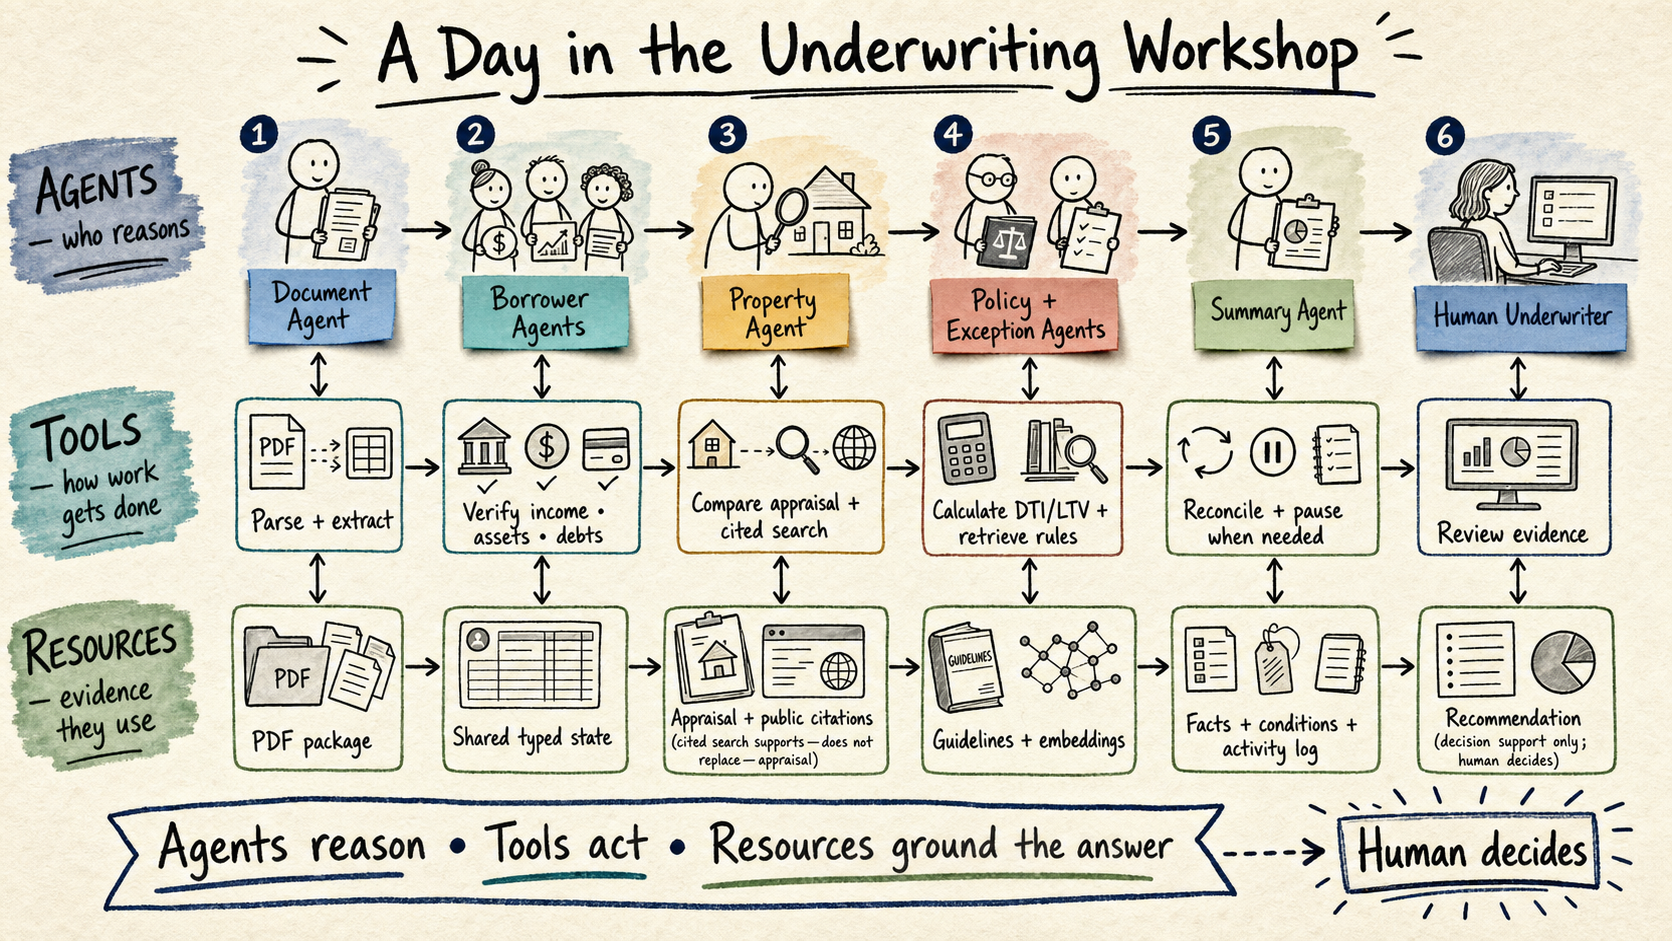
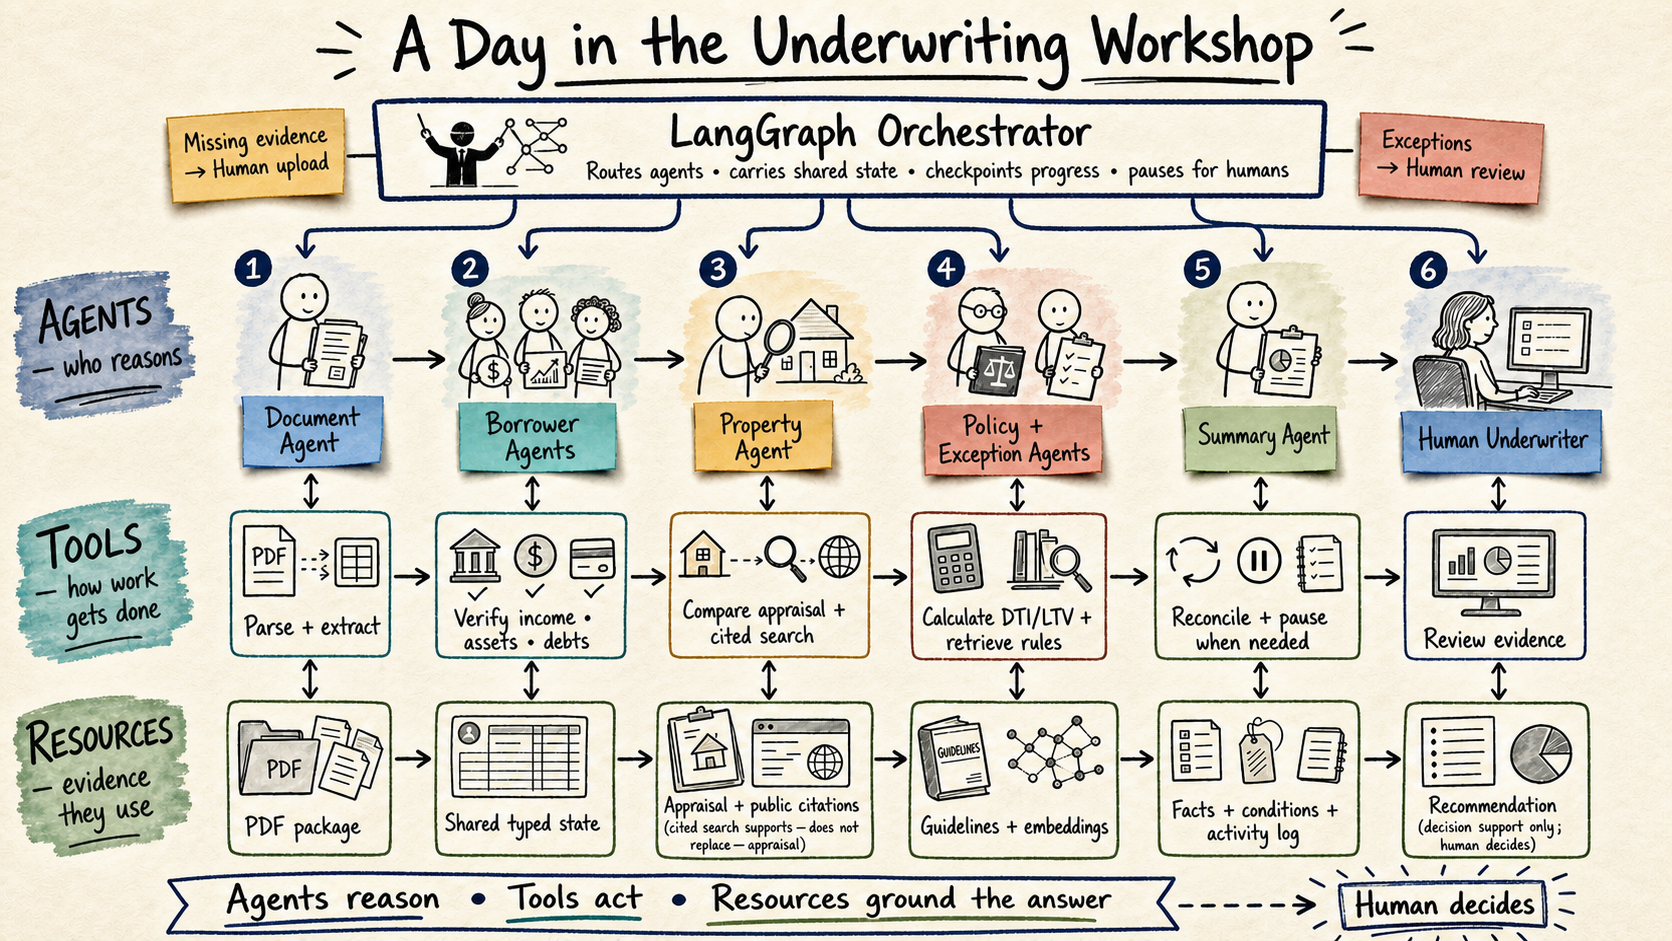
updated the markdown to call out the orchestrator pattern

diff --git a/streamlit_app.py b/streamlit_app.py
@@ -47,7 +47,7 @@ RECOMMENDATION_LABELS = {
 
 
 st.set_page_config(
-    page_title="Underwriting Review Workspace",
+    page_title="Underwriting Copilot",
     page_icon="🏠",
     layout="wide",
     initial_sidebar_state="expanded",
@@ -423,7 +423,7 @@ def render_active_workflow() -> None:
 
 initialize_session()
 
-st.title("Underwriting Review Workspace")
+st.title("Underwriting Copilot")
 st.write(
     "Evidence-backed mortgage analysis with deterministic calculations, cited policy, "
     "optional property research, and explicit human review checkpoints."

diff --git a/underwriting_agent.md b/underwriting_agent.md
@@ -70,13 +70,16 @@ The copilot assists throughout the review; it never owns the lending decision.
 
 ![Hand-drawn story connecting underwriting agents, tools, and resources](docs/images/agent-tools-resources-story.png)
 
-The graph behaves like a workshop relay. An **agent** owns a bounded reasoning
-step, invokes deterministic or optional provider-backed **tools**, and grounds
-its output in traceable **resources**. Typed state carries the evidence to the
-next specialist; the final handoff belongs to the human underwriter.
+The graph behaves like a workshop relay directed by the **LangGraph
+orchestrator**. The orchestrator routes each phase, carries shared state,
+checkpoints progress, and pauses for human input. Within that flow, an **agent**
+owns a bounded reasoning step, invokes deterministic or optional
+provider-backed **tools**, and grounds its output in traceable **resources**.
+The final handoff belongs to the human underwriter.
 
 | Story chapter | Agent | Tools | Resources and outputs |
 |---|---|---|---|
+| Coordinate the full journey | LangGraph orchestrator | Conditional edges, `interrupt()`, `Command(resume=...)`, checkpointing | Shared typed state, `thread_id`, AI and human workflow events |
 | Understand the package | Document intake and requirement agents | PDF parsing, classification, structured extraction, inventory checks | Source PDFs, parsed documents, missing-evidence list |
 | Verify the borrower | Borrower router plus income, asset, and liability specialists | Income normalization, asset verification, debt aggregation | Application, W-2/tax evidence, statements, credit report, typed analyses |
 | Understand the collateral | Property analysis and research agents | Contract/appraisal comparison, optional address-only cited search | Purchase agreement, appraisal, public citations, discrepancies |
